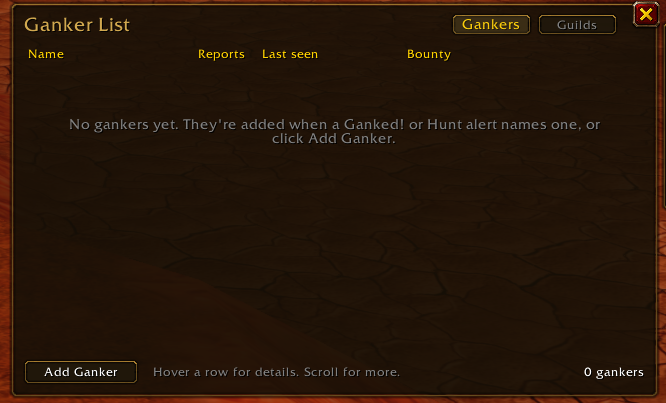
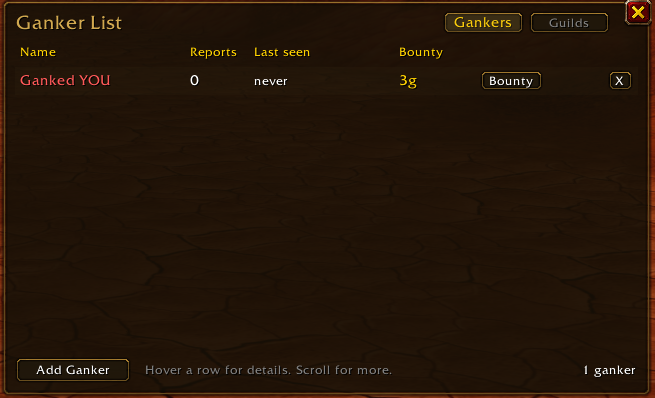
Update README screenshots and widen the Added by column
New panel and ganker list screenshots, plus one of the Guilds view.
Guild rows let the Added by name run into the unused bounty column, so
two-word Forever names aren't cut off.

diff --git a/README.md b/README.md
@@ -4,7 +4,7 @@ Call your guild for backup in **WoW: Forever**. One button tells every guildmate
 
 Alerts go over the hidden guild addon channel. Nobody outside your guild sees them, and you have to be in a guild to send or receive.
 
-<p align="center"><img src="docs/images/panel.png" alt="Rallying Cry button panel with Ganked!, World PvP, Hunt Ganker, All Clear, and Ganker List" width="170"></p>
+<p align="center"><img src="docs/images/panel.png" alt="Rallying Cry button panel with Ganked!, World PvP, Hunt Ganker, Ganker List, and All Clear" width="170"></p>
 
 > **WoW: Forever only.** Built for the Forever client (interface 16001). It won't load on Classic Era, and isn't supported on Retail.
 
@@ -40,7 +40,7 @@ The window closes on its own after 60 seconds, or when the sender calls All Clea
 
 The guild keeps one shared list of gankers. Anyone running Rallying Cry sees the same list, and it catches you up on anything you missed when you log in.
 
-<p align="center"><img src="docs/images/ganker-list.png" alt="Ganker List window with Gankers and Guilds tabs" width="560"></p>
+<p align="center"><img src="docs/images/ganker-list.png" alt="Ganker List showing a ganker with a 3 gold bounty" width="560"></p>
 
 - **Adding**: anyone named in your Ganked! or Hunt alert goes on the list automatically, and repeat reports bump their count and last-seen zone. You can also click **Add Ganker**, which opens a form for the name (or Use Target), an optional reason, and an optional bounty, or type `/rc kos add Name reason`
 - **Removing**: only the person who added them, or an officer, can take someone off. Officers are any rank with the guild's **Remove Member** permission
@@ -49,6 +49,8 @@ The guild keeps one shared list of gankers. Anyone running Rallying Cry sees the
 - **Warnings**: target or mouse over a listed ganker, or a member of a KOS guild, and you get a chat warning and a sound, with their bounty
 - **KOS guilds**: officers can put a whole guild on KOS. Every member then counts as a ganker without being added one by one. Switch the list window to **Guilds**, click **Add Guild** (it fills in your target's guild), or type `/rc kos guild add Guild Name - reason`. Alerts show the ganker's guild and flag KOS guilds
 - **Guild families**: adding **Olympus** also covers numbered guilds like Olympus 2, Olympus II, and Olympus #3 (untick the box in the form for an exact match only). End a name with `*`, like **Olympus\***, to cover every guild that starts with it. Targeting a member of Olympus 2 and clicking Add Guild fills in Olympus. Entries that would cover your own guild are refused
+
+<p align="center"><img src="docs/images/kos-guilds.png" alt="Ganker List switched to Guilds, showing Olympus on KOS" width="560"></p>
 
 The addon can't hold or move gold. A bounty is a pledge, and the poster pays it by mail.
 

diff --git a/CHANGELOG.md b/CHANGELOG.md
@@ -2,6 +2,7 @@
 
 ## Unreleased
 
+- Guilds list: the Added by name no longer gets cut off
 - Panel order: Ganker List sits above All Clear, which is now at the bottom
 - KOS guild families: adding Olympus also covers Olympus 2, Olympus II, and so on, and Olympus* covers every guild starting with Olympus. Add Guild fills in the base name when you target a numbered guild
 - Hunt Ganker is blue instead of purple
